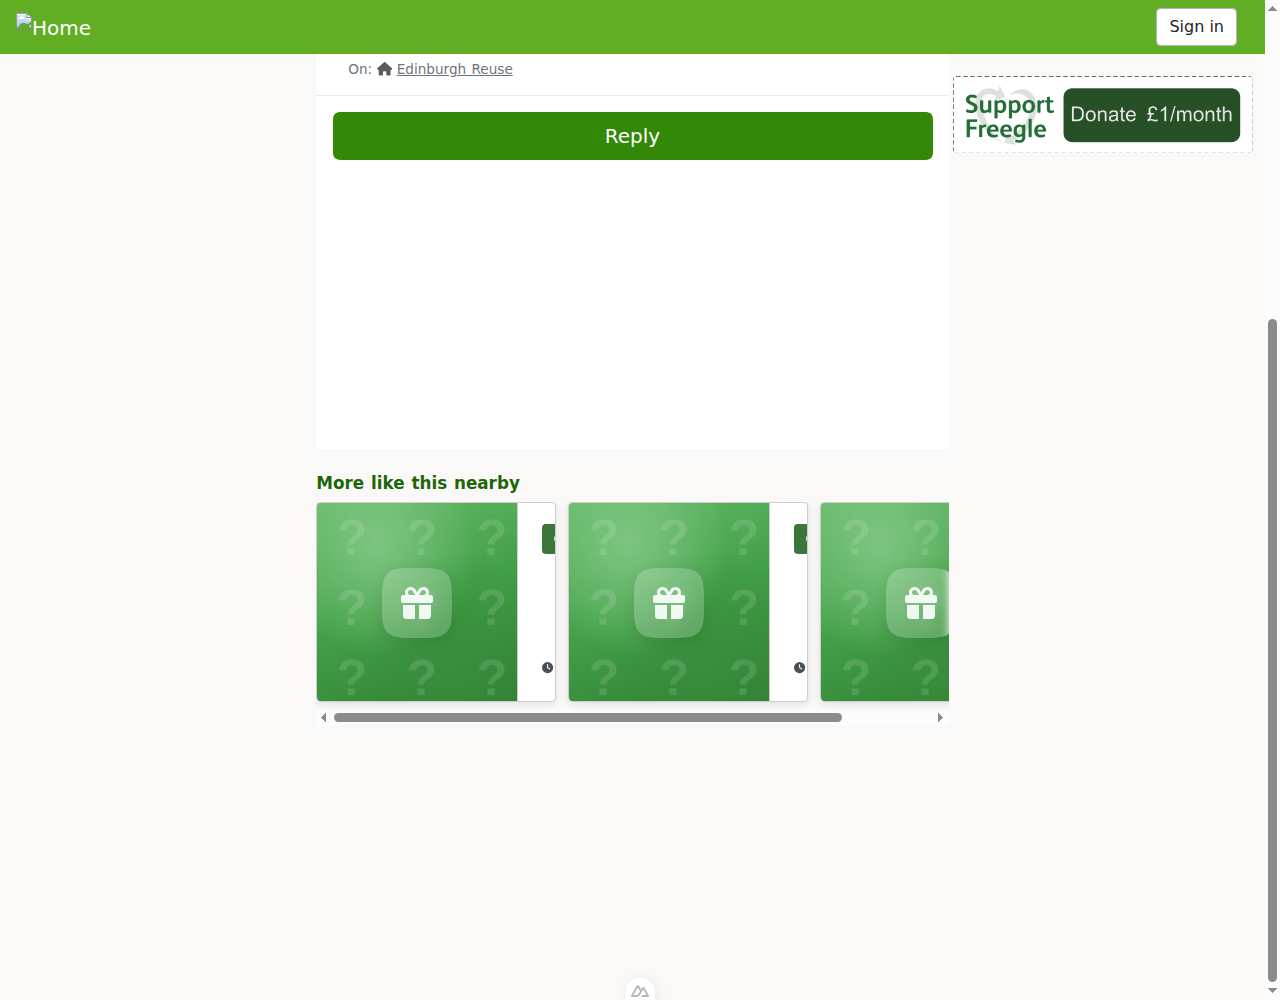
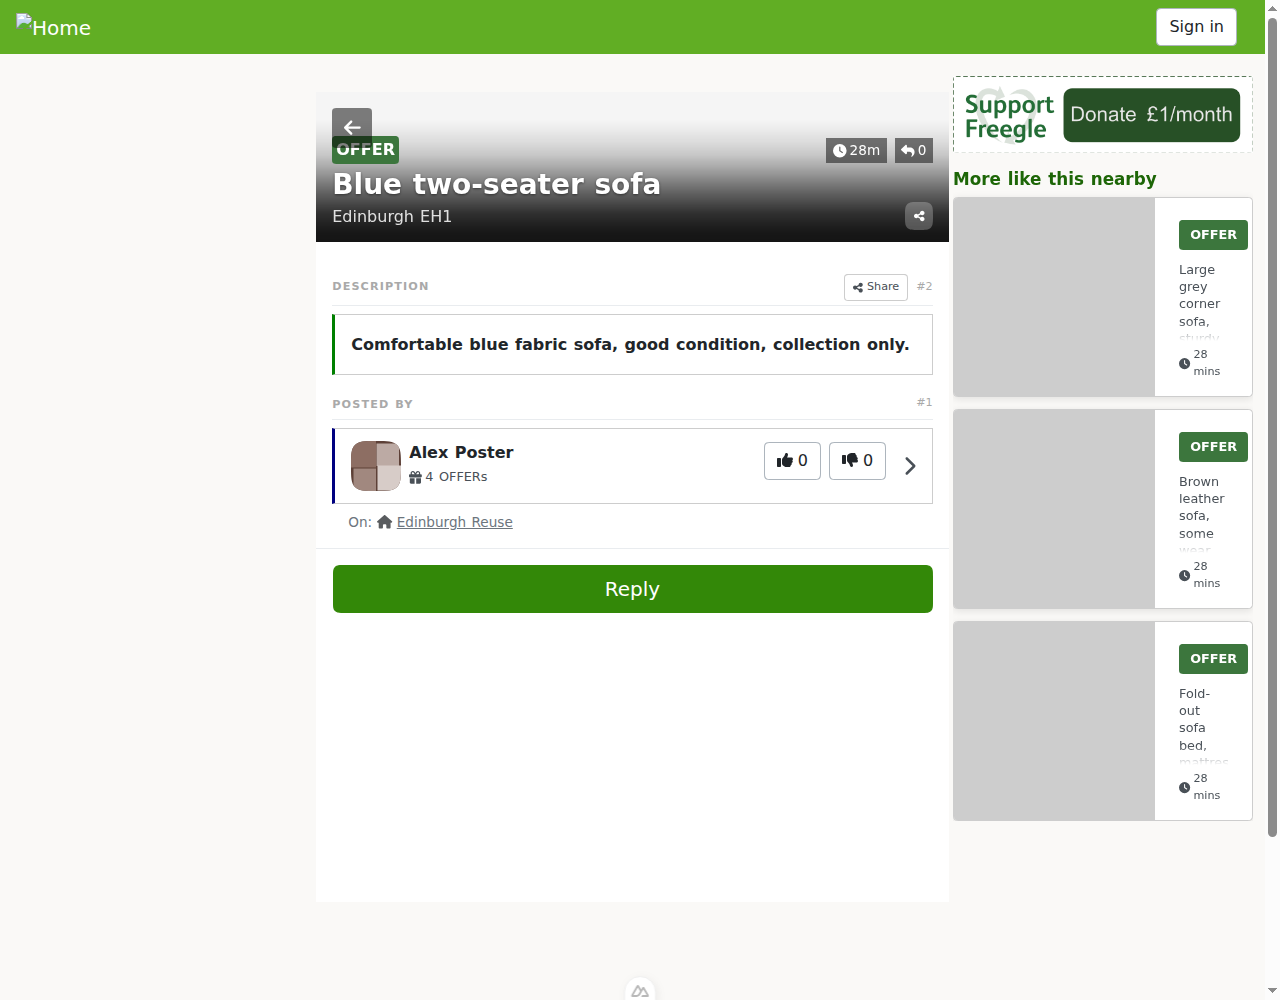
feat(similar-posts): sidebar on desktop, post-reply modal on mobile
Recommendations no longer clutter the post inline. On desktop the 'More like
this nearby' list moves into the right sidebar (vertical, capped, below the ad);
on mobile it doesn't render inline at all and instead opens as a modal after the
user sends a reply (MessageExpanded emits 'replied' -> OurMessage -> page).
SimilarPosts becomes a vertical list with variant (sidebar|modal), eager and max
props. Adds unit tests for the max cap, the modal hiding its own heading, and
eager load-on-mount. Refreshes the PR screenshots to the new layout.

Changed region(s): [[0.25, 0.031, 1.0, 0.837], [0.9688, 0.837, 1.0, 0.992], [0.5938, 0.434, 0.6875, 0.465]]

diff --git a/iznik-nuxt3/components/SimilarPosts.vue b/iznik-nuxt3/components/SimilarPosts.vue
@@ -1,17 +1,20 @@
 <template>
-  <!-- The whole strip is lazy: nothing is fetched until it scrolls into view,
-       and it renders nothing at all (no heading, no reserved space) unless we
-       have at least a few genuine matches. -->
+  <!-- Renders nothing at all (no heading, no reserved space) unless we have at
+       least a few genuine matches. In the sidebar it lazy-loads when it scrolls
+       into view; in a modal it loads eagerly because it's shown deliberately. -->
   <section
     v-observe-visibility="{
       callback: onVisible,
       options: { rootMargin: '200px' },
     }"
     class="similar-posts"
+    :class="`similar-posts--${variant}`"
   >
     <template v-if="show">
-      <h3 class="similar-posts__heading">More like this nearby</h3>
-      <div class="similar-posts__row">
+      <h3 v-if="variant !== 'modal'" class="similar-posts__heading">
+        More like this nearby
+      </h3>
+      <div class="similar-posts__list">
         <div v-for="mid in ids" :key="mid" class="similar-posts__item">
           <MessageSummary :id="mid" @expand="open(mid)" />
         </div>
@@ -21,7 +24,7 @@
 </template>
 
 <script setup>
-import { ref, computed } from 'vue'
+import { ref, computed, onMounted } from 'vue'
 import { navigateTo } from '#imports'
 import { useMessageStore } from '~/stores/message'
 import { useMe } from '~/composables/useMe'
@@ -30,6 +33,14 @@ import MessageSummary from '~/components/MessageSummary'
 const props = defineProps({
   // The post we're finding matches for.
   msgid: { type: [Number, String], required: true },
+  // 'sidebar' (desktop, alongside the post) or 'modal' (mobile, after a reply).
+  variant: { type: String, default: 'sidebar' },
+  // Load immediately on mount rather than waiting for the visibility callback.
+  // The modal is only mounted when it's opened, so it should fetch straight away.
+  eager: { type: Boolean, default: false },
+  // Cap the number of cards rendered. The sidebar has limited height alongside
+  // the post; the modal can show more. 0 means no cap.
+  max: { type: Number, default: 0 },
 })
 
 const MIN_RESULTS = 3
@@ -44,15 +55,15 @@ const ids = ref([])
 let loaded = false
 
 // 10% deterministic holdout: logged-in users whose id ends in 0 never see the
-// strip (and it never fetches), giving a clean control group for measuring
-// whether the recommendations are worth showing. Anonymous users always see it
-// and are excluded from the cohort analysis.
+// recommendations (and they never fetch), giving a clean control group for
+// measuring whether they're worth showing. Anonymous users always see them and
+// are excluded from the cohort analysis.
 const inHoldout = computed(() => !!myid.value && myid.value % 10 === 0)
 
 const show = computed(() => ids.value.length >= MIN_RESULTS)
 
-async function onVisible(visible) {
-  if (!visible || inHoldout.value || loaded) {
+async function load() {
+  if (inHoldout.value || loaded) {
     return
   }
   loaded = true
@@ -71,7 +82,11 @@ async function onVisible(visible) {
   // Hydrate the summaries so MessageSummary can render them from the store.
   await Promise.all(found.map((id) => messageStore.fetch(id).catch(() => null)))
   // Only keep the ones that actually resolved to a renderable message.
-  ids.value = found.filter((id) => messageStore.list[id])
+  let renderable = found.filter((id) => messageStore.list[id])
+  if (props.max > 0) {
+    renderable = renderable.slice(0, props.max)
+  }
+  ids.value = renderable
 
   if (ids.value.length >= MIN_RESULTS) {
     // Count the impression once (source-tagged so it's attributable). Fire and
@@ -81,6 +96,18 @@ async function onVisible(visible) {
     ids.value = []
   }
 }
+
+function onVisible(visible) {
+  if (visible) {
+    load()
+  }
+}
+
+onMounted(() => {
+  if (props.eager) {
+    load()
+  }
+})
 
 function open(mid) {
   navigateTo('/message/' + mid + '?src=' + SOURCE)
@@ -103,25 +130,16 @@ function open(mid) {
   margin-bottom: 0.5rem;
 }
 
-/* Horizontal scroller. The row scrolls inside its own container so it never
-   pushes the page into horizontal scroll; a partial next card peeks to signal
-   there's more. */
-.similar-posts__row {
+/* Vertical list: cards stack down the column. Used both in the desktop sidebar
+   (alongside the post, so it never pushes the post around) and in the mobile
+   after-reply modal. */
+.similar-posts__list {
   display: flex;
+  flex-direction: column;
   gap: 0.75rem;
-  overflow-x: auto;
-  scroll-snap-type: x mandatory;
-  -webkit-overflow-scrolling: touch;
-  padding-bottom: 0.5rem;
 }
 
 .similar-posts__item {
-  flex: 0 0 auto;
-  width: 15rem;
-  scroll-snap-align: start;
-
-  @include media-breakpoint-down(sm) {
-    width: 72vw;
-  }
+  width: 100%;
 }
 </style>

diff --git a/iznik-nuxt3/pages/message/[id].vue b/iznik-nuxt3/pages/message/[id].vue
@@ -106,17 +106,15 @@
             hide-close
             record-view
             @not-found="error = true"
+            @replied="onReplied"
           />
         </div>
-        <client-only>
-          <SimilarPosts v-if="message && !showtaken" :msgid="id" />
-        </client-only>
       </b-col>
       <b-col cols="0" lg="3" class="d-none d-lg-flex justify-content-end">
         <client-only>
           <VisibleWhen
             :not="['xs', 'sm', 'md']"
-            class="position-fixed"
+            class="position-fixed similar-posts-sidebar"
             style="width: 300px"
           >
             <ExternalDa
@@ -127,10 +125,41 @@
               show-logged-out
               :jobs="false"
             />
+            <!-- Desktop: similar posts live in the sidebar so they never push
+                 the post itself around. On mobile they'd just be clutter, so
+                 there they're shown as a modal after the user replies (see the
+                 SimilarPostsModal wiring below). -->
+            <SimilarPosts
+              v-if="message && !showtaken"
+              :msgid="id"
+              variant="sidebar"
+              :max="3"
+              class="mt-3"
+            />
           </VisibleWhen>
         </client-only>
       </b-col>
     </b-row>
+    <!-- Mobile only: after a reply, surface the recommendations as a modal so
+         they never clutter the post itself on a small screen (on desktop they
+         live in the sidebar instead). -->
+    <client-only>
+      <b-modal
+        v-model="showSimilarModal"
+        title="More like this nearby"
+        size="md"
+        ok-only
+        ok-title="Close"
+      >
+        <SimilarPosts
+          v-if="showSimilarModal && message"
+          :msgid="id"
+          variant="modal"
+          eager
+          :max="6"
+        />
+      </b-modal>
+    </client-only>
   </b-col>
 </template>
 <script setup>
@@ -169,6 +198,20 @@ const showtaken = route?.query?.showtaken
 const failed = ref(false)
 const error = ref(false)
 const mountComplete = ref(false)
+
+// After a reply, surface the "more like this" recommendations as a modal on
+// mobile only. On desktop they already live in the sidebar, so opening a modal
+// there would be redundant.
+const showSimilarModal = ref(false)
+function onReplied() {
+  if (
+    typeof window !== 'undefined' &&
+    window.matchMedia &&
+    window.matchMedia('(max-width: 991.98px)').matches
+  ) {
+    showSimilarModal.value = true
+  }
+}
 
 const myid = computed(() => authStore.user?.id)
 
@@ -235,6 +278,14 @@ onMounted(async () => {
 
 <style scoped lang="scss">
 @import 'assets/css/_color-vars.scss';
+
+/* The fixed sidebar holds the ad and the similar-posts list stacked; cap its
+   height to the viewport and let it scroll internally so a tall list never
+   runs off the bottom of the screen. */
+.similar-posts-sidebar {
+  max-height: calc(100vh - 5rem);
+  overflow-y: auto;
+}
 
 .error-page {
   min-height: 60vh;

diff --git a/iznik-nuxt3/tests/unit/components/SimilarPosts.spec.js b/iznik-nuxt3/tests/unit/components/SimilarPosts.spec.js
@@ -117,4 +117,50 @@ describe('SimilarPosts', () => {
     expect(mockSimilar).toHaveBeenCalledWith(100, 8)
     expect(wrapper.text()).toContain('More like this nearby')
   })
+
+  it('caps the number of rendered cards with the max prop', async () => {
+    mockSimilar.mockResolvedValue([
+      { id: 1 },
+      { id: 2 },
+      { id: 3 },
+      { id: 4 },
+      { id: 5 },
+    ])
+    const wrapper = mountSP({ max: 3 })
+    await flushPromises()
+    expect(wrapper.findAll('.msg-summary')).toHaveLength(3)
+    // The impression is counted for exactly the capped set.
+    expect(mockMarkSeen).toHaveBeenCalledWith([1, 2, 3], 'similar_posts')
+  })
+
+  it('hides its own heading in the modal variant (the modal supplies the title)', async () => {
+    mockSimilar.mockResolvedValue([{ id: 1 }, { id: 2 }, { id: 3 }])
+    const wrapper = mountSP({ variant: 'modal' })
+    await flushPromises()
+    expect(wrapper.text()).not.toContain('More like this nearby')
+    expect(wrapper.findAll('.msg-summary')).toHaveLength(3)
+  })
+
+  it('loads eagerly on mount when eager, without waiting for visibility', async () => {
+    mockSimilar.mockResolvedValue([{ id: 1 }, { id: 2 }, { id: 3 }])
+    // No-op the visibility directive so ONLY the eager path can trigger the load.
+    const wrapper = mount(SimilarPosts, {
+      props: { msgid: 100, eager: true },
+      global: {
+        stubs: {
+          MessageSummary: {
+            template: '<div class="msg-summary" @click="$emit(\'expand\')" />',
+            props: ['id'],
+          },
+          'client-only': { template: '<div><slot /></div>' },
+        },
+        directives: {
+          'observe-visibility': { mounted() {} },
+        },
+      },
+    })
+    await flushPromises()
+    expect(mockSimilar).toHaveBeenCalledWith(100, 8)
+    expect(wrapper.findAll('.msg-summary')).toHaveLength(3)
+  })
 })

diff --git a/iznik-nuxt3/components/MessageExpanded.vue b/iznik-nuxt3/components/MessageExpanded.vue
@@ -715,7 +715,7 @@ const props = defineProps({
   },
 })
 
-const emit = defineEmits(['zoom', 'close'])
+const emit = defineEmits(['zoom', 'close', 'replied'])
 
 const miscStore = useMiscStore()
 const mobileStore = useMobileStore()
@@ -1004,6 +1004,10 @@ function expandReply() {
 function sent() {
   showReplyOverlay.value = false
   replied.value = true
+
+  // Tell the page a reply went through, so on mobile it can surface the
+  // "more like this" recommendations as a modal (they're clutter inline there).
+  emit('replied')
 
   // When we're a message inside a list (browse / explore), the reply was sent
   // WITHOUT navigating to the chat. Show the "Message sent" confirmation

diff --git a/iznik-nuxt3/components/OurMessage.vue b/iznik-nuxt3/components/OurMessage.vue
@@ -29,6 +29,7 @@
         :replyable="replyable"
         :hide-close="hideClose"
         :actions="actions"
+        @replied="emit('replied')"
       />
     </div>
     <div v-else>
@@ -52,6 +53,7 @@
         :actions="actions"
         fullscreen-overlay
         @close="closeMobileExpanded"
+        @replied="emit('replied')"
       />
     </div>
   </div>
@@ -153,7 +155,7 @@ const props = defineProps({
   },
 })
 
-const emit = defineEmits(['notFound', 'view', 'visible'])
+const emit = defineEmits(['notFound', 'view', 'visible', 'replied'])
 
 // Stores
 const messageStore = useMessageStore()
